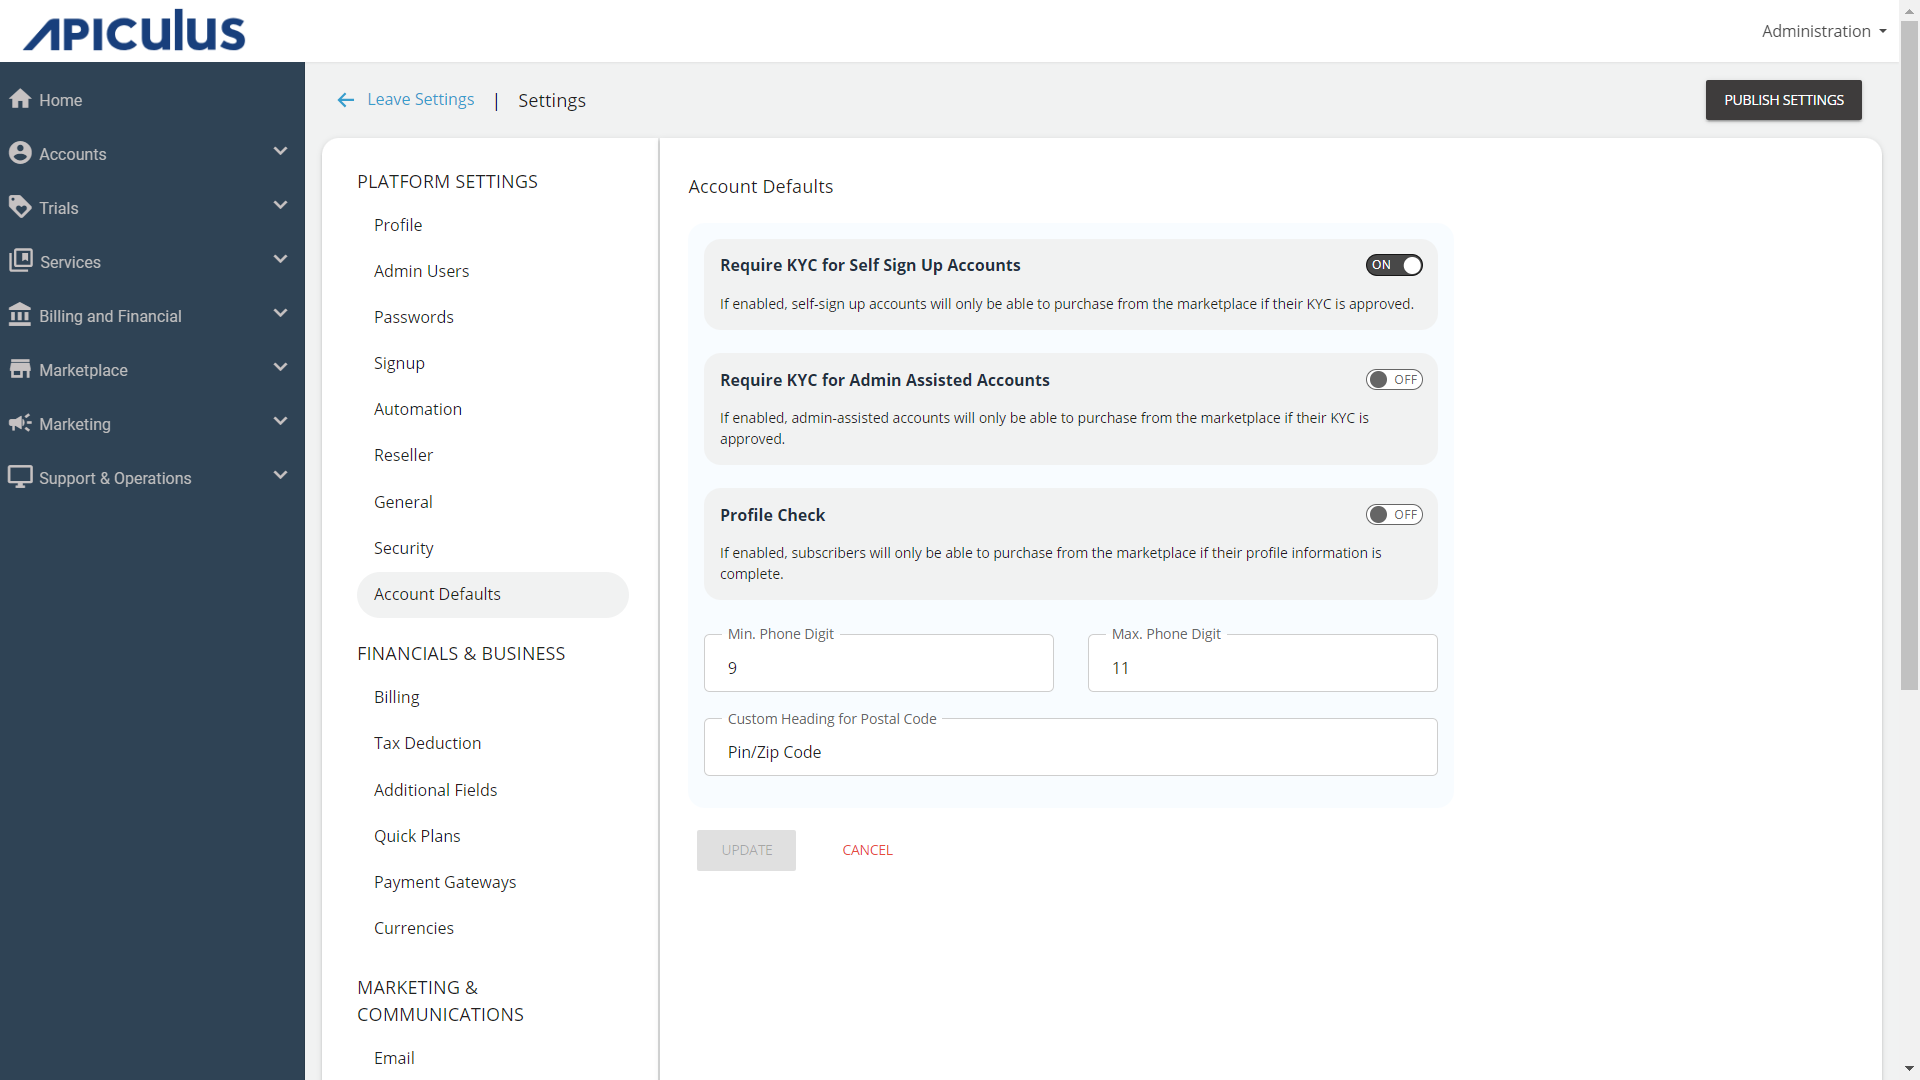
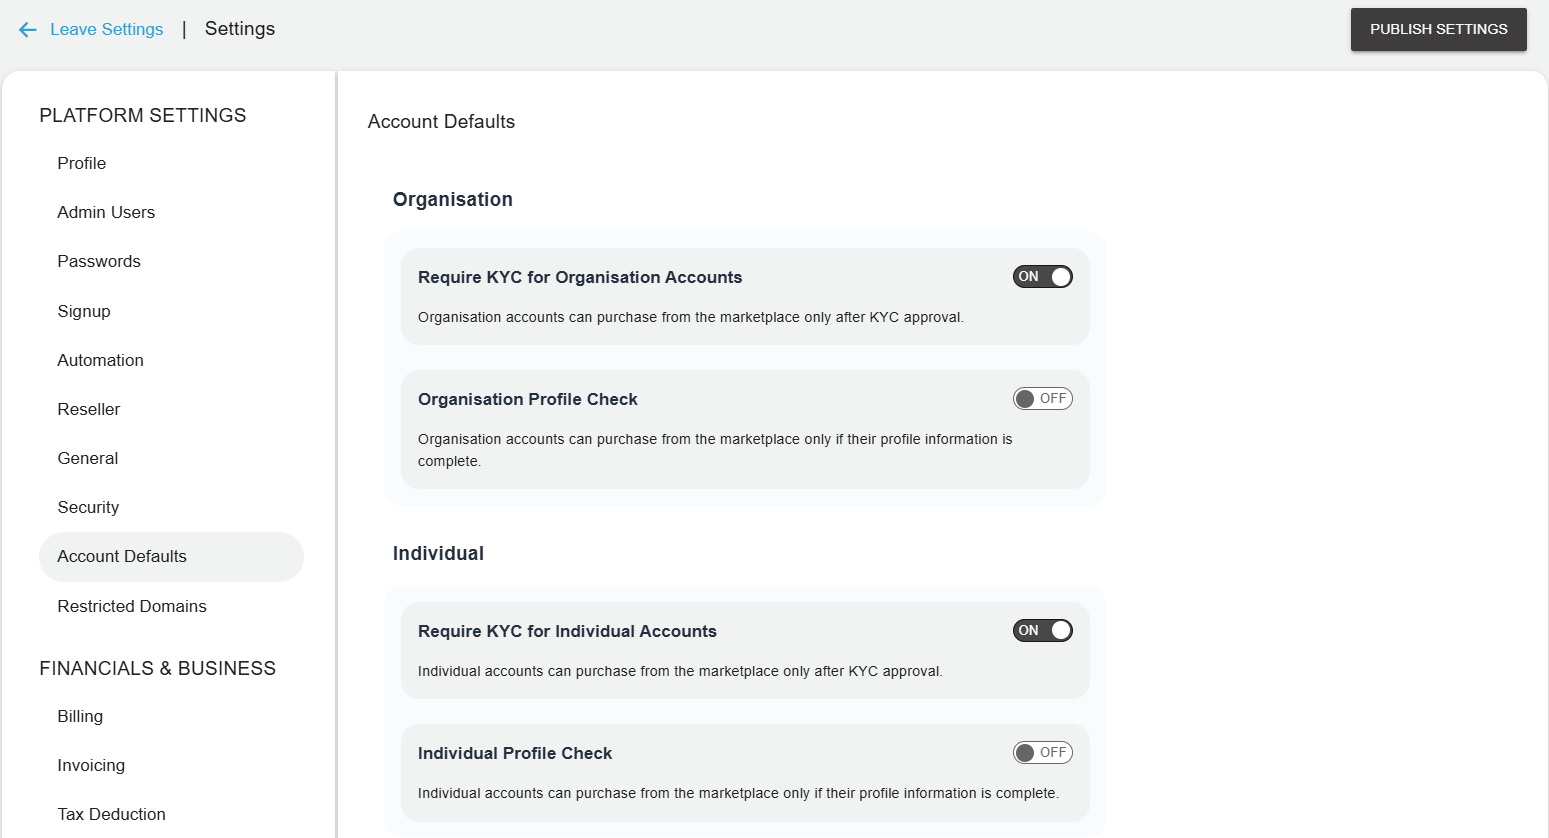
Updates

diff --git a/docs/GettingStarted/SignupConfigurations/ConfiguringAccountDefaults.md b/docs/GettingStarted/SignupConfigurations/ConfiguringAccountDefaults.md
@@ -6,18 +6,19 @@ sidebar_position: 2
 Account defaults include the various configurations that are applied once an account is created successfully. For example, it can be KYC needed for self-signup accounts, or it can be the minimum or maximum number associated with the account as required or any other check like profile check enabled. 
 
 To configure account defaults, navigate to **Administration** > **Settings** > **Account Defaults**. The following screen appears:
+1. Organisation
 ![config account details](img/configaccountdetails.png)
 
 Configure following details as per your requirements:
-- **Require KYC for Self Sign Up Accounts** - If this option is enabled, self-signed up accounts can purchase or activate any resource from the marketplace only when their KYC is approved.
-- **Require KYC for Admin Assisted Accounts** - If this option is enabled, all admin-assisted accounts will purchase or activate any resource from the marketplace only when their KYC is approved.
-- **Profile Check** - If this option is enabled, then the subscriber first needs to complete their profile, Only then will they be able to purchase resources from the marketplace.
-- **Minimum Phone Digits** - The minimum digits can be specified for a phone number associated with the account.
-- **Maximum Phone Digits** - The maximum digits can be specified for a phone number associated with the account.
-- **Custom Heading for Postal Code** - If your country of operations uses a different nomenclature for postal codes, you can specify that here.
+- **Require KYC for Organisation Accounts** - If this option is enabled, self-signed up accounts can purchase or activate any resource from the marketplace only when their KYC is approved.
+- **Organisation Profile Check** - If this option is enabled, then the subscriber first needs to complete their profile, Only then will they be able to purchase resources from the marketplace.
+2. Individual
+- Require KYC for Individual Accounts - If this option is enabled, then Subscriber can purchase from the marketplace, only when their KYC is approved.
+- Individual Profile Check - if this option is enabled, then Subscriber can purchase from the marketplace, only if their 
 
 
 
 
 
+![Other Defaults](img/Otherdefaults.png)
 
